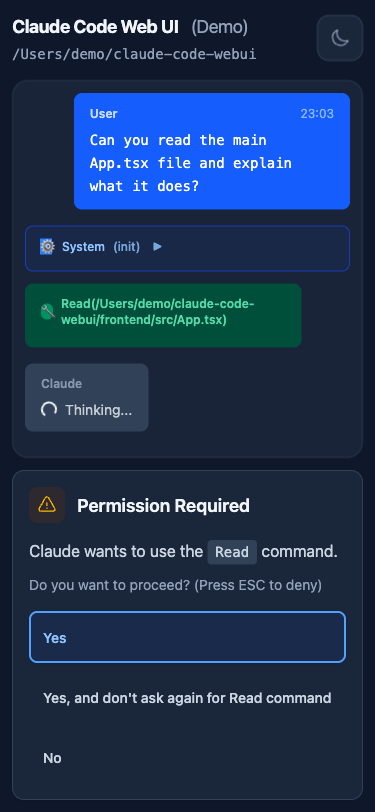
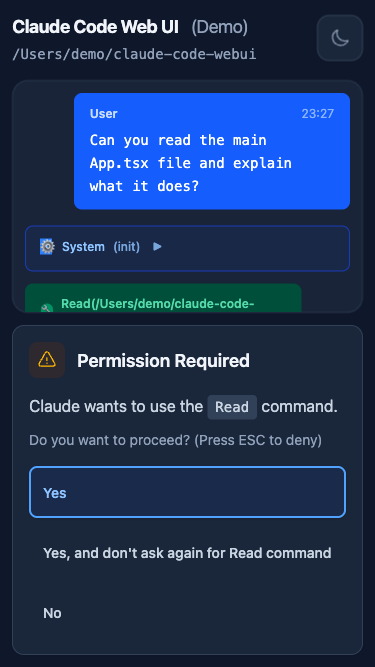
refactor: optimize screenshots for better mobile support and content focus
## Mobile Improvements
- Update viewport: iPhone 13 (375x812) → iPhone SE (375x667)
- More appropriate for general mobile users
- Less vertically stretched display

## Content Unification
- Main display: Basic chat scenario (Dark theme)
- Light theme: Basic chat for consistency (removed permission dialog)
- Advanced Features: Permission dialogs only (Desktop/Mobile)

## User Experience
- Chat input field prominently visible
- Clear demonstration of CLI → Web chat transformation
- Simplified, focused content without redundancy
- Better representation of core value proposition

## Screenshot Updates
- Re-captured all basic scenarios with new mobile viewport
- Updated light theme to match main content (basic chat)
- Consolidated advanced features to permission workflow only
- Removed code generation screenshot (weak visual impact)

🤖 Generated with [Claude Code](https://claude.ai/code)

Changed region(s): [[0.0293, 0.0, 0.9387, 0.8696], [0.1173, 0.8996, 0.176, 0.9595], [0.9093, 0.3898, 0.9387, 0.4198]]

diff --git a/README.md b/README.md
@@ -14,10 +14,10 @@
 
 <div align="center">
 
-| Desktop Interface                                                                                      | Mobile Experience                                                                                    |
-| ------------------------------------------------------------------------------------------------------ | ---------------------------------------------------------------------------------------------------- |
-| <img src="docs/images/screenshot-desktop-codeGeneration-dark.png" alt="Desktop Interface" width="600"> | <img src="docs/images/screenshot-mobile-fileOperations-dark.png" alt="Mobile Interface" width="250"> |
-| _Professional coding interface with syntax highlighting and tool permissions_                          | _Touch-friendly mobile experience with responsive design_                                            |
+| Desktop Interface                                                                             | Mobile Experience                                                                           |
+| --------------------------------------------------------------------------------------------- | ------------------------------------------------------------------------------------------- |
+| <img src="docs/images/screenshot-desktop-basic-dark.png" alt="Desktop Interface" width="600"> | <img src="docs/images/screenshot-mobile-basic-dark.png" alt="Mobile Interface" width="250"> |
+| _Chat-based coding interface with instant responses and ready input field_                    | _Mobile-optimized chat experience with touch-friendly design_                               |
 
 </div>
 
@@ -26,10 +26,24 @@
 
 <div align="center">
 
-| Desktop (Light)                                                                                     | Mobile (Light)                                                                                    |
-| --------------------------------------------------------------------------------------------------- | ------------------------------------------------------------------------------------------------- |
-| <img src="docs/images/screenshot-desktop-fileOperations.png" alt="Desktop Light Theme" width="600"> | <img src="docs/images/screenshot-mobile-fileOperations.png" alt="Mobile Light Theme" width="250"> |
-| _Clean light interface for daytime coding_                                                          | _Mobile-optimized light theme_                                                                    |
+| Desktop (Light)                                                                            | Mobile (Light)                                                                           |
+| ------------------------------------------------------------------------------------------ | ---------------------------------------------------------------------------------------- |
+| <img src="docs/images/screenshot-desktop-basic.png" alt="Desktop Light Theme" width="600"> | <img src="docs/images/screenshot-mobile-basic.png" alt="Mobile Light Theme" width="250"> |
+| _Clean light interface for daytime coding sessions_                                        | _iPhone SE optimized light theme interface_                                              |
+
+</div>
+
+</details>
+
+<details>
+<summary><strong>🔧 Advanced Features</strong></summary>
+
+<div align="center">
+
+| Desktop Permission Dialog                                                                              | Mobile Permission Dialog                                                                              |
+| ------------------------------------------------------------------------------------------------------ | ----------------------------------------------------------------------------------------------------- |
+| <img src="docs/images/screenshot-desktop-fileOperations-dark.png" alt="Permission Dialog" width="600"> | <img src="docs/images/screenshot-mobile-fileOperations-dark.png" alt="Mobile Permission" width="250"> |
+| _Secure tool access with granular permission controls and clear approval workflow_                     | _Touch-optimized permission interface for mobile devices_                                             |
 
 </div>
 
